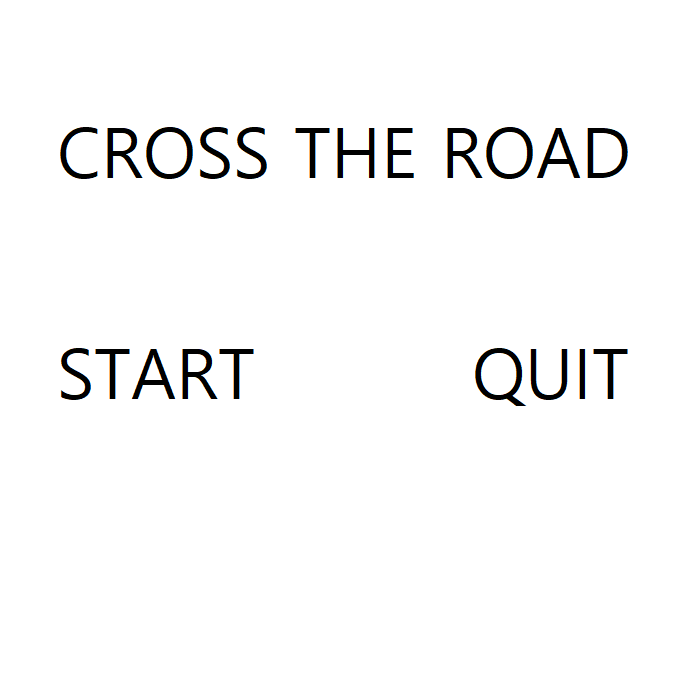
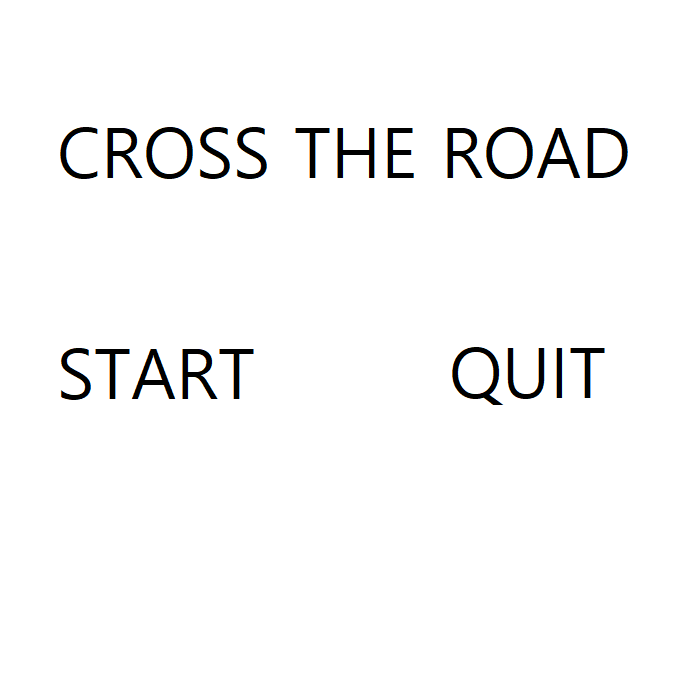
2021_2 오픈소스SW 이해와 실습 중간프로젝트 2021042031 장준혁

Changed region(s): [[0.63, 0.48, 0.9, 0.6]]

diff --git a/main.py b/main.py
@@ -1,7 +1,6 @@
 import pygame
 import random
 import keyboard
-
 ########################################
 
 # 기본 초기화
@@ -27,10 +26,15 @@ pygame.display.set_caption("무단 횡단")
 total_score = 0
 temp_score = 0
 total_level = 10
+
 characterSize = (40, 70)
 carSize = (25, 50)
+
 is_right = None
 is_left = None
+
+ranking = []  #게임 기록 저장할 빈 리스트
+names=[]    # 닉네임 저장할 빈 리스트
 
 running = True  # 게임이 진행중인가 확인하는 변수
 play = False
@@ -81,8 +85,6 @@ character_speed = 0.5
 
 # 장애물 클래스
 object_list = list()
-
-
 class object_class:
     object_image = pygame.image.load("source/cars/object.png")
 
@@ -144,7 +146,6 @@ class object_class:
         self.object_rect.left = self.object_x_pos
         self.object_rect.top = self.object_y_pos
 
-
 # 버튼 클래스
 class Button:
     def __init__(self, img, x, y, width, height, action=None):
@@ -162,9 +163,25 @@ class Button:
 ###############################
 # 게임 중지 함수
 def quitgame():
-    global running
+    global running, play
+
+    f = open("source/score.txt", 'w')
+    for name, rank in zip(names, ranking):  # names와 ranking리스트에서 각 요소를
+        w = name + ":" + str(rank) + "\n"  # :와 \n로 합쳐 한줄로 만든다.
+        f.write(w)  # 파일에 한줄씩 기록
+    f.close()
+
+    play = False
+    running = False
     pygame.quit()
-    running=False
+
+def loading():
+    f=open("source/score.txt",'r')
+    lines=f.readlines() #파일 전체 내용 lines에 저장
+    for line in lines:
+        names.append(line[:line.index(":")])    #이름은 ranking의 0인덱스에
+        ranking.append(int(line[line.index(":")+1:-1])) # 랭킹은 int형으로 ranking 0인덱스에 삽입 ( -1인 한 이유는 \n 제거 위함 )
+    f.close()
 
 def playgame():
     global play
@@ -236,7 +253,7 @@ def printer():
             screen.blit(i.object_image, (i.object_x_pos, i.object_y_pos))
     else:
         screen.blit(readyScreen, (0, 0))
-        screen.blit(start_icon, (80, 455))
+        screen.blit(start_icon, (100, 455))
         screen.blit(quit_icon, (480, 455))
 
 
@@ -253,31 +270,47 @@ def crash():
         if character_rect.colliderect(i.object_rect):
             crash_sound.play()
             print("충돌!!")
+
+            msg4 = game_font.render("콘솔에 이름입력", True, (0, 0, 0), (150, 150, 150))  # 검은색 글씨, 회색 바탕
+            msg4_rect = msg4.get_rect()
+            msg4_rect.center = (int(screen_width / 2), int(screen_height / 2) - 55)
+            screen.blit(msg4, msg4_rect)
+            pygame.display.update()
+
+            if len(ranking) == 0 or ranking[0] > total_score+temp_score:  #최고기록이라면
+                name = input("\n닉네임을 입력하세요 >> ")  # 닉네임 입력받음
+                names.insert(0, name)  # 이름리스트; 최고 기록이니까 0번째 인덱스에 삽입한다.
+                ranking.insert(0, total_score+temp_score)  # 기록리스트; #최고 기록이니까 0번째 인덱스에 삽입한다.
+                print("게임화면을 보세요.")
+
             while (1):
+                screen.fill((255,255,255))
                 # 게임 오버 메시지
                 msg1 = game_font.render(" CRASH!! ", True, (0, 0, 0), (150, 150, 150))  # 검은색 글씨, 회색 바탕
                 msg2 = game_font.render(f' SCORE : {total_score + temp_score}', True, (0, 0, 0), (150, 150, 150))
                 msg3 = game_font.render(" PRESS \'esc\' TO QUIT. ", True, (0, 0, 0), (150, 150, 150))
+                msg5 = game_font.render(f'최고기록 : {name[0]}의 {ranking[0]}점', True, (0, 0, 0), (150, 150, 150))
                 # 메시지 출력위치를 가져온다
                 msg1_rect = msg1.get_rect()
                 msg2_rect = msg2.get_rect()
                 msg3_rect = msg3.get_rect()
+                msg5_rect = msg5.get_rect()
                 # 택스트객체의 중심을 설정한 좌표로 한다.
                 msg1_rect.center = (int(screen_width / 2), int(screen_height / 2) - 55)
                 msg2_rect.center = (int(screen_width / 2), int(screen_height / 2))
                 msg3_rect.center = (int(screen_width / 2), int(screen_height / 2) + 55)
+                msg5_rect.center = (int(screen_width / 2), int(screen_height / 2) + 110)
                 # 텍스트 객체를 출력한다.
                 screen.blit(msg1, msg1_rect)
                 screen.blit(msg2, msg2_rect)
                 screen.blit(msg3, msg3_rect)
+                screen.blit(msg5, msg5_rect)
 
                 pygame.display.update()
                 # esc 혹은 창닫기를 누르면 종료.
                 for event in pygame.event.get():
                     if event.type == pygame.QUIT or keyboard.is_pressed('esc'):
-                        play = False
-                        running = False
-                        pygame.quit()
+                        quitgame()
 
 # 실행문
 
@@ -291,17 +324,16 @@ while running:
             running = False
         if event.type == pygame.MOUSEBUTTONDOWN:
             pos = pygame.mouse.get_pos()
-            if 180 >= pos[0] >= 80 and 555 >= pos[1] >= 455:
+            if 200 >= pos[0] >= 100 and 555 >= pos[1] >= 455:
                 playgame()
-            if 570 >= pos[0] >= 480 and 555 >= pos[1] >= 455:
+            if 580 >= pos[0] >= 480 and 555 >= pos[1] >= 455:
                 quitgame()
     while play:
         dt = clock.tick(60)
         print("fps : " + str(clock.get_fps()))
         for event in pygame.event.get():
             if event.type == pygame.QUIT:
-                play = False
-                running = False
+                quitgame()
 
             if event.type == pygame.KEYDOWN:
                 if event.key == pygame.K_RIGHT:
@@ -341,9 +373,10 @@ while running:
         printer()
         # 충돌처리
         crash()
-        pygame.display.update()  # 게임화면 리프레쉬
-
-    pygame.display.update()  # 게임화면 리프레쉬
+        # 게임화면 리프레쉬
+        pygame.display.update()
+    # 게임화면 리프레쉬
+    pygame.display.update()
 
 # pygame 종료
 pygame.quit()
